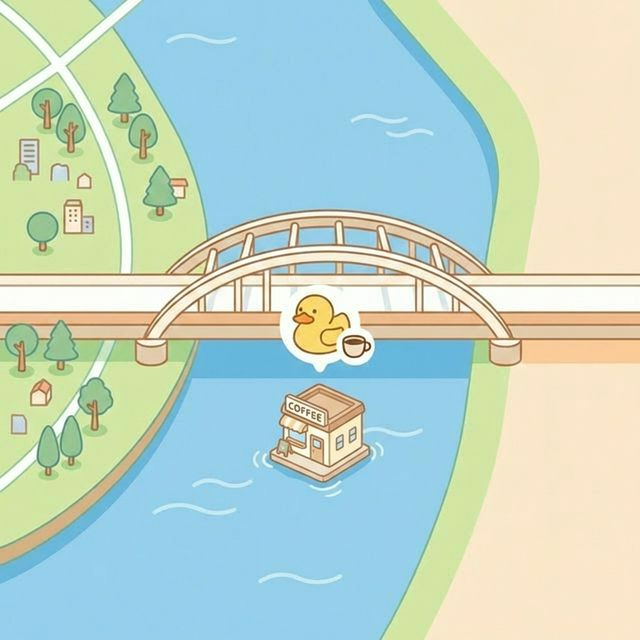
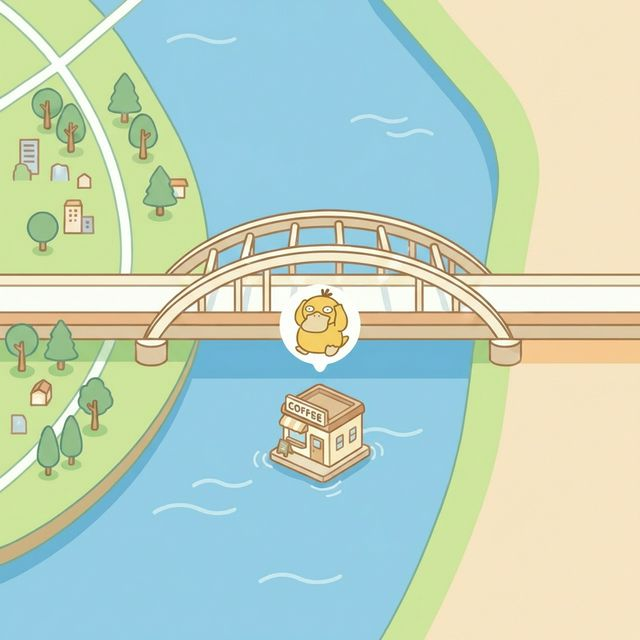
매장안내 이미지 변경 및 반응형 사진 안나오는부분 수정

diff --git a/frontend/components/landing/LocationSection.tsx b/frontend/components/landing/LocationSection.tsx
@@ -8,20 +8,20 @@ export default function LocationSection() {
                 <div className={styles.textArea}>
                     <span className={styles.label}>📍 오시는 길</span>
                     <h2 className={styles.heading}>
-                        원효대교 위에서 만나는<br />특별한 커피 한 잔
+                        한강 한가운데서 만나는<br />고라파덕 카페
                     </h2>
                     <p className={styles.desc}>
-                        탁 트인 한강 뷰와 함께 여유로운 시간을 보내세요.<br />
-                        <strong>주소:</strong> 서울특별시 영등포구 여의동 원효대교 중간
+                        머리가 아플 땐 시원한 강바람이 최고잖아요? 🌊<br />
+                        <strong>주소:</strong> 서울 영등포구 여의동 원효대교 바로 밑 강물 위
                     </p>
                     <div className={styles.infoBox}>
                         <div className={styles.infoItem}>
-                            <strong>🕒 영업시간</strong>
-                            <p>매일 08:00 - 22:00</p>
+                            <strong>🚣♀ 오시는 길</strong>
+                            <p>여의도 한강공원에서 오리배(10분) 또는 자유형(5분) 🏊♂</p>
                         </div>
                         <div className={styles.infoItem}>
                             <strong>🚗 주차안내</strong>
-                            <p>여의도 한강공원 제1주차장 이용 (도보 5분)</p>
+                            <p>원효대교 밑둥에 튜브 주차 가능 (구명조끼 지참 필수)</p>
                         </div>
                     </div>
                 </div>

diff --git a/frontend/components/landing/LocationSection.module.css b/frontend/components/landing/LocationSection.module.css
@@ -91,4 +91,12 @@
     .heading {
         font-size: 2rem;
     }
+
+    .imageArea {
+        width: 100%;
+    }
+
+    .mapWrapper {
+        aspect-ratio: 1 / 1;
+    }
 }
